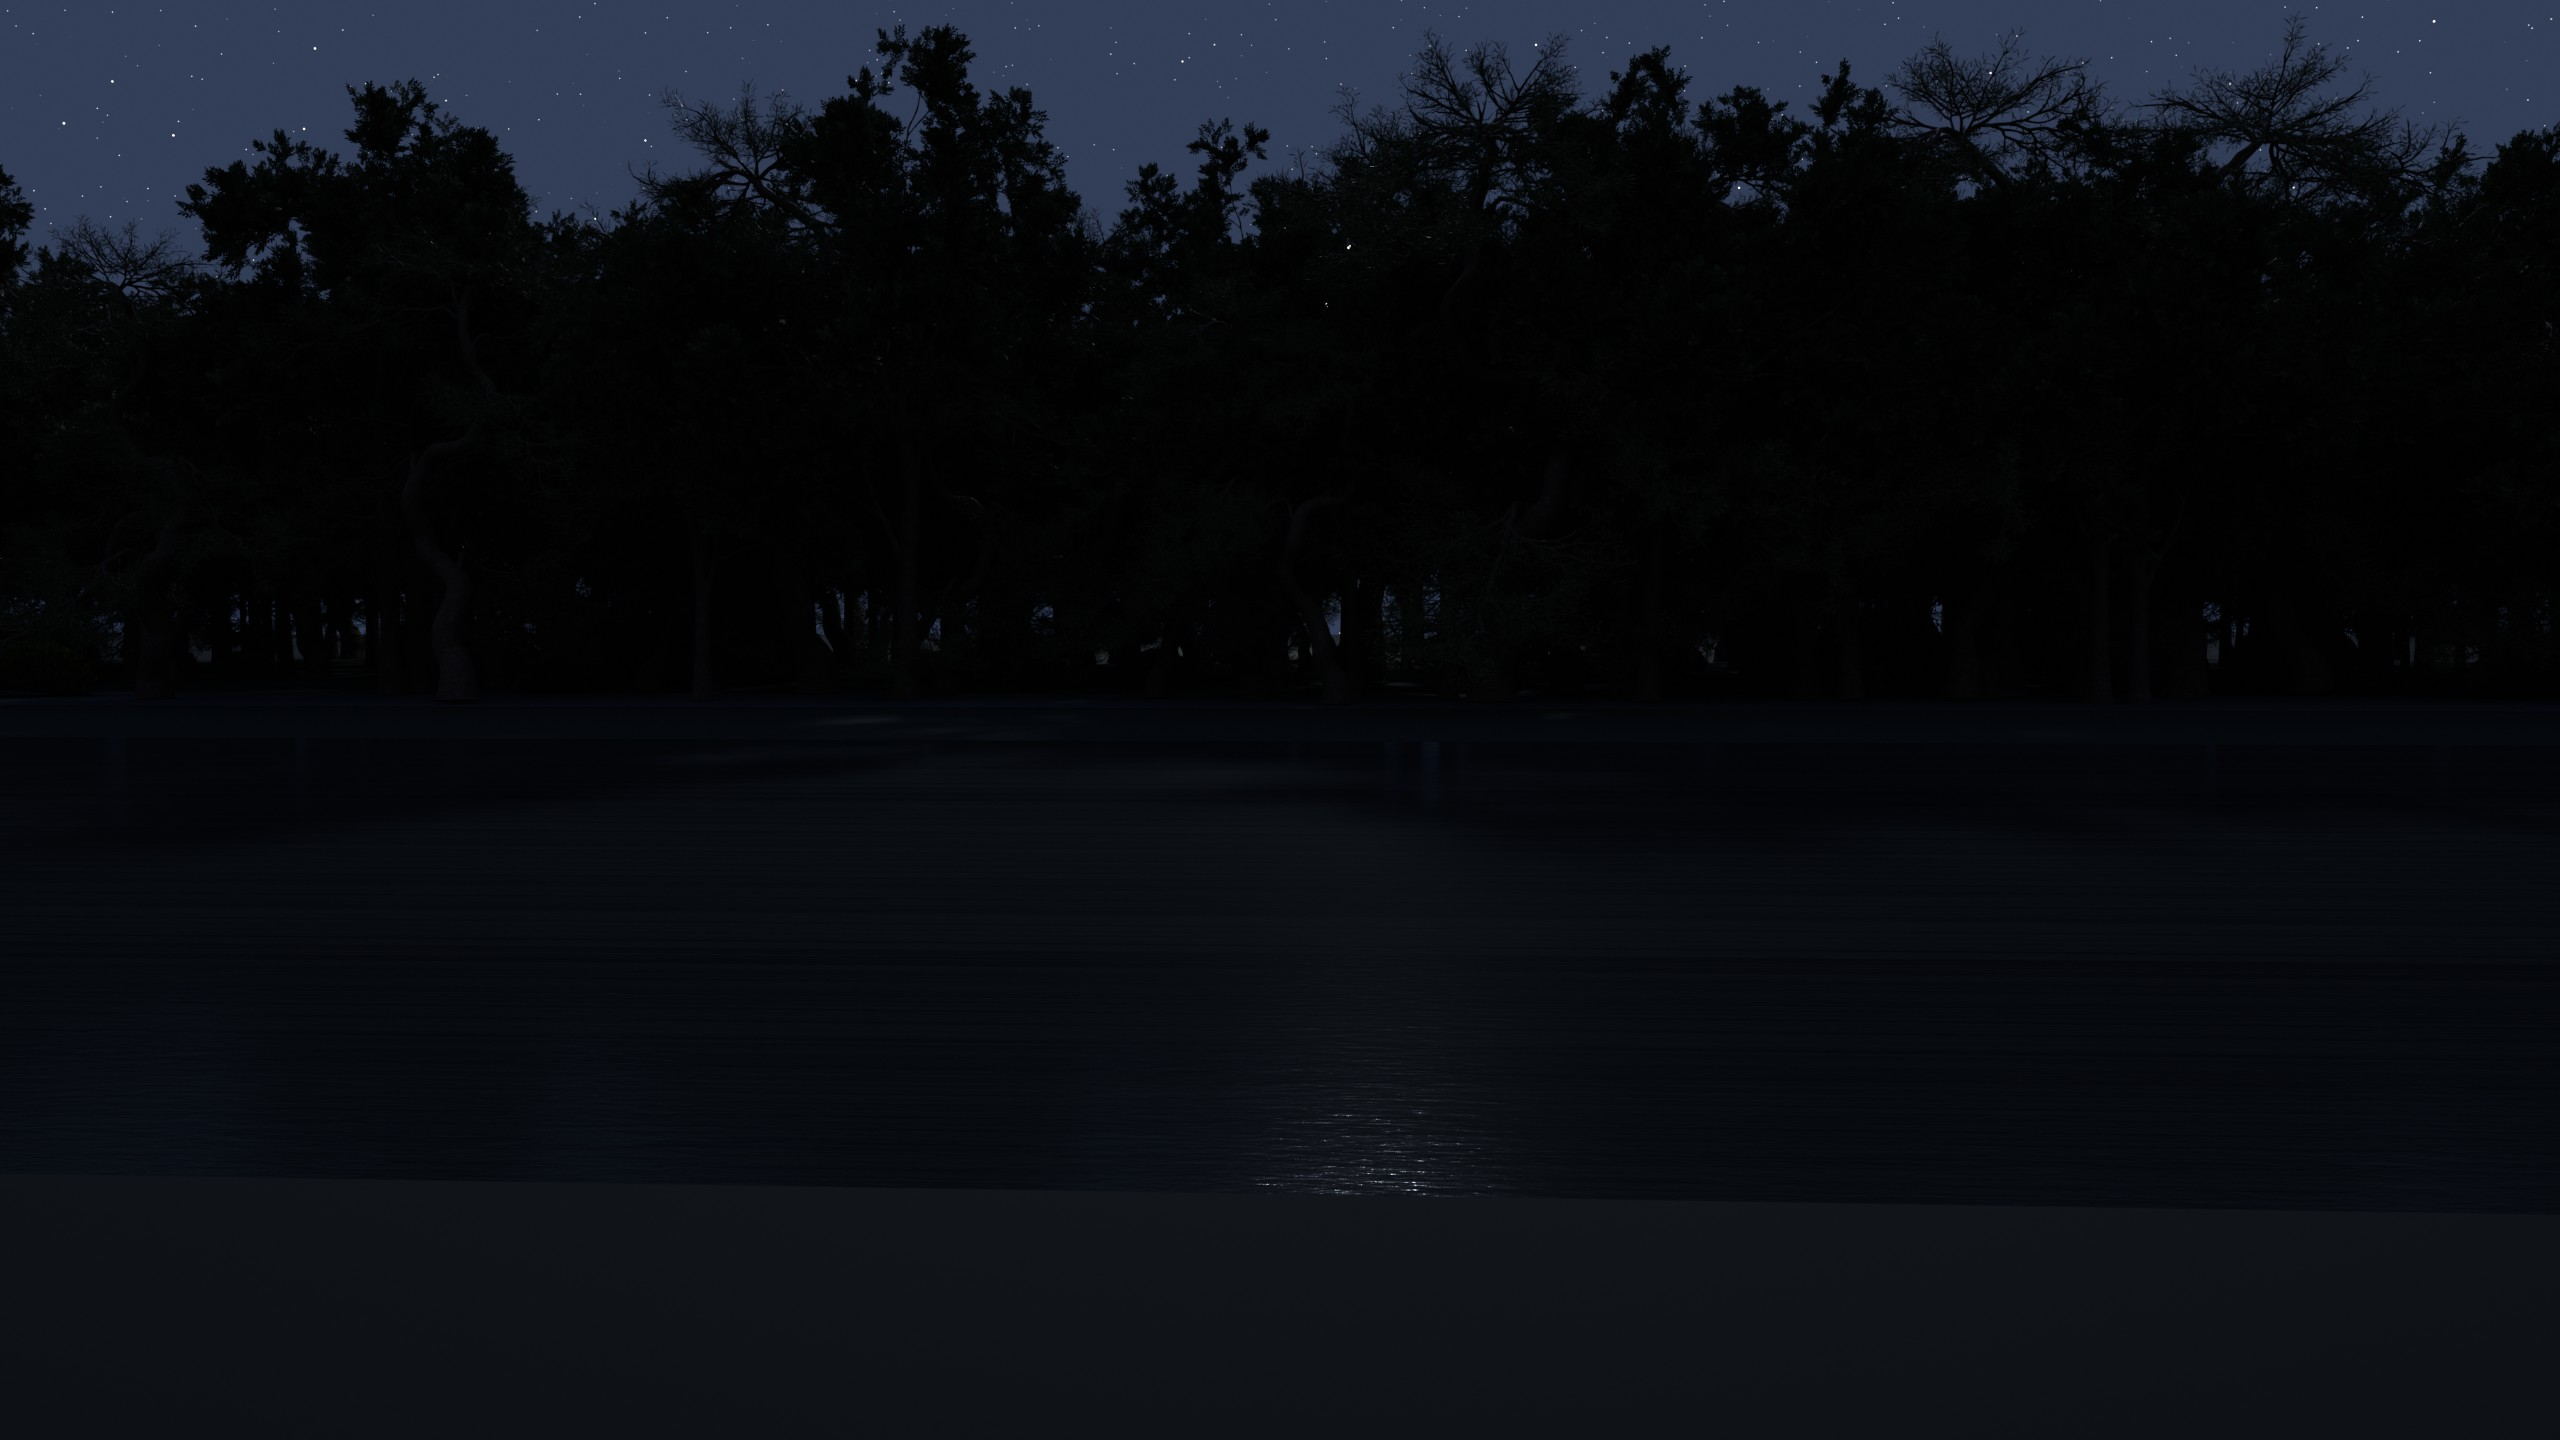
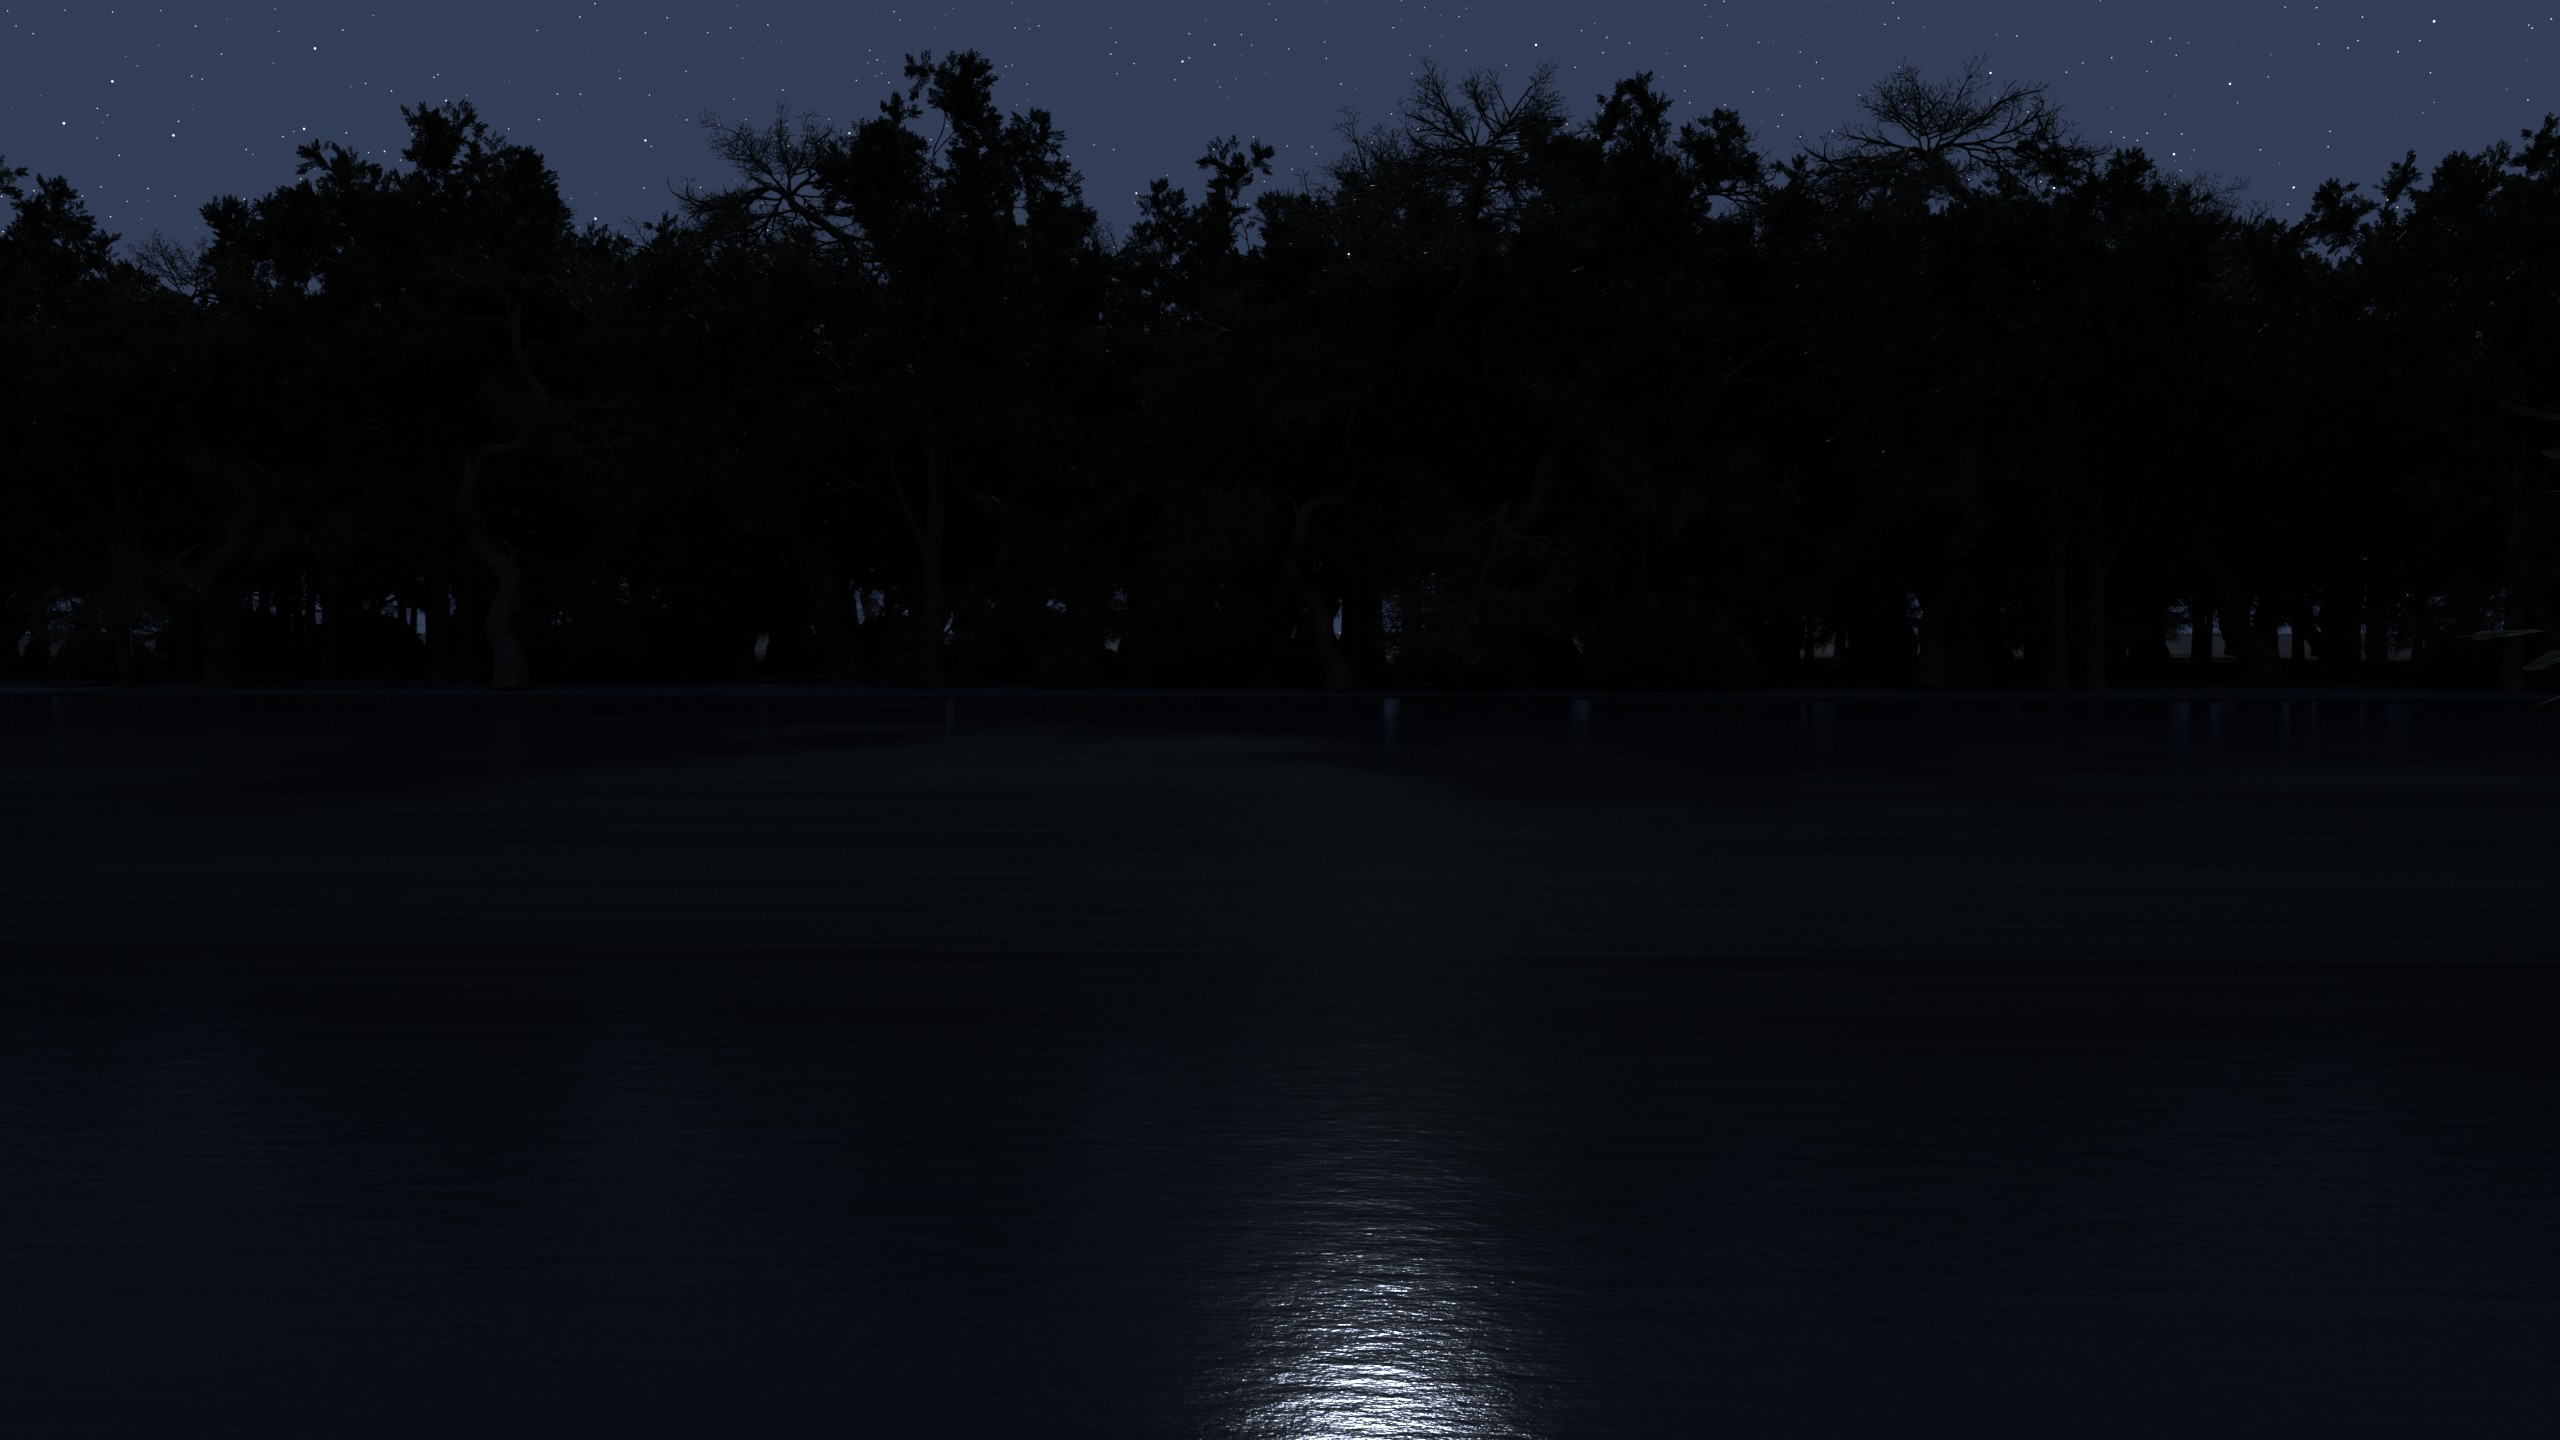
fix(cabin): 水際をカメラ足元(約0.4m=1歩以内)まで前進
- plane scaleは実寸(size=1基準)と判明: 前回設定では水際がカメラ7.5m先で
  前景に見えていた緑は水面でなく地面だった
- 湖を y≈0.4..42 に再配置(near edge=loc_y-scale_y/2),カメラ高1.45→1.35
- in_water/岸/対岸/stillカメラを新しい水際に整合
- night/day/still 全再レンダ(6144x3072)

diff --git a/_blender/cabin_outside_360.py b/_blender/cabin_outside_360.py
@@ -223,13 +223,15 @@ def box(name, sx, sy, sz, loc, mat, rot=(0,0,0)):
 
 # ---- ground + intimate forest pond (water laps right at your feet, wraps past you) ----
 box('Ground', 600, 600, 0.1, (0, 0, -0.10), MAT['ground'])
-box('LakeBed', 200, 130, 0.05, (0, 19, -0.42), MAT['lakebed'])     # bottom seen through clear water
-bpy.ops.mesh.primitive_plane_add(size=1, location=(0, 19, -0.05))
-lake = bpy.context.active_object; lake.name = 'Lake'; lake.scale = (84, 23, 1)   # y≈-4..42, x±42: a forest pond hugged by trees; near edge wraps behind the camera
+box('LakeBed', 200, 150, 0.05, (0, 21, -0.42), MAT['lakebed'])     # bottom seen through clear water
+# NB primitive_plane_add(size=1) makes a 1×1 plane, so scale == full size in metres.
+# near edge = loc_y - scale_y/2.  Here y ≈ 0.4 .. 42 → the water laps right at your feet (one step ahead).
+bpy.ops.mesh.primitive_plane_add(size=1, location=(0, 21.2, -0.05))
+lake = bpy.context.active_object; lake.name = 'Lake'; lake.scale = (84, 41.6, 1)   # x±42, y≈0.4..42: water starts ~0.4 m in front of you
 lake.data.materials.append(MAT['water'])
-# you stand on a small rock at the very lip — water in front of, beside and below you
-box('ShoreStrip', 8, 2.6, 0.05, (0, -2.4, -0.02), MAT['shore'])    # the small mossy bank just behind you; in front and below is open water
-box('FarBank', 130, 8, 0.08, (0, 45, -0.06), MAT['shore'])         # the near far-bank the treeline stands on
+# the narrow mossy bank you stand on — its front lip is ~0.1 m ahead, water begins right past it
+box('ShoreStrip', 13, 3.1, 0.05, (0, -1.45, -0.02), MAT['shore'])
+box('FarBank', 130, 8, 0.08, (0, 44, -0.06), MAT['shore'])         # the far-bank the treeline stands on
 
 # ---- the cabin you came from: a log cabin nestled at the forest edge behind-left ----
 CABIN = (-9.5, -7.5)        # turn around from the lake and it's there, among the trees
@@ -251,8 +253,8 @@ box('Chimney', 0.85, 0.85, ch+1.6, (CABIN[0]-cw/2-0.35, CABIN[1], (ch+1.6)/2), M
 
 # ---- the forest: real trees + shrubs ringing the lake; open water fills the whole front ----
 def in_water(x, y):
-    # the pond footprint: keep all trees/shrubs out of the water; the far bank is ~y=44
-    return (-5.0 < y < 43) and (abs(x) < 44)
+    # the pond footprint (water y≈0.4..42, x±42) + the near bank: keep trees/shrubs off the water and out of the view right in front
+    return (-0.5 < y < 43) and (abs(x) < 44)
 def near_cabin(x, y):
     if abs(x - CABIN[0]) < 5.0 and abs(y - CABIN[1]) < 5.0: return True
     # keep a clear sightline (a little path) from the shore to the cabin so it's always visible
@@ -323,11 +325,11 @@ pd = bpy.data.cameras.new('Pano'); pd.type = 'PANO'
 try: pd.cycles.panorama_type = 'EQUIRECTANGULAR'
 except Exception: pass
 cam = bpy.data.objects.new('Pano', pd); coll.objects.link(cam)
-cam.location = (0, 0, 1.45); cam.rotation_euler = (math.radians(90), 0, 0)   # right at the waterline, low, so the pond fills the foreground below you
+cam.location = (0, 0, 1.35); cam.rotation_euler = (math.radians(90), 0, 0)   # standing on the bank lip, low — water begins ~0.4 m in front, filling the view below
 
 stilld = bpy.data.cameras.new('Still'); stilld.lens = 26
 still = bpy.data.objects.new('Still', stilld); coll.objects.link(still)
-still.location = (0, 1.6, 1.8); still.rotation_euler = (math.radians(87), 0, math.radians(3))   # stand back a touch, near-horizontal: pond → far treeline → stars, water as a calm foreground mirror
+still.location = (0, -1.0, 1.6); still.rotation_euler = (math.radians(87), 0, math.radians(3))   # on the bank, near-horizontal: water at your feet → pond → far treeline → stars
 
 _GPU = setup_gpu()
 cy = scene.cycles
